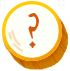
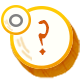
Fix button animation; change help button on map

diff --git a/scenarios/map/mapp.py b/scenarios/map/mapp.py
@@ -26,7 +26,7 @@ class Map:
 
         self.session = {
             "stages": self.slot["stages"],
-            "is_new?": True if self.slot["last_level_passed"]["code"] == 1 else False,
+            "is_new?": True if self.slot["last_level_passed"]["code"] == 2 else False,
             "current_level":  self.slot["last_level_passed"]["code"],
             "completed": self.slot["stages"]["completado"]
         }
@@ -62,7 +62,7 @@ class Map:
             "6" : utils.load_image("6.png", "map/HUD"),
             "7" : utils.load_image("7.png", "map/HUD"),
             "8" : utils.load_image("8.png", "map/HUD"),
-            "help" : Button((1070, 50), "h1.png", "h2.png", 70, 71, "map/HUD")
+            "help" : Button((1058, 39), "h1.png", "h2.png", 82, 82, "map/HUD")
         }
 
         self.nutriton = {
@@ -229,7 +229,7 @@ class Map:
             if not self.session["is_new?"]:
                 self.load_worlds()
             self.check_luis_status()
-            self.screen.blit(self.hud["help"].base, (1070, 50))
+            self.screen.blit(self.hud["help"].base, (1058, 39))
             self.animate_marker()
 
     def check_luis_status(self):

diff --git a/scenarios/utils/button.py b/scenarios/utils/button.py
@@ -11,7 +11,7 @@ class Button(pygame.sprite.Sprite):
         self.end_rect = self.end.get_rect(topleft=self.pos)
         self.flag = flag
     def on_press(self, screen):
-        screen.blit(self.end, (self.pos[0], self.pos[1]))
+        pygame.display.update(screen.blit(self.end, (self.pos[0], self.pos[1])))
         pygame.time.delay(150)
     def on_focus(self, screen):
         screen.blit(self.end, (self.pos[0], self.pos[1]))
